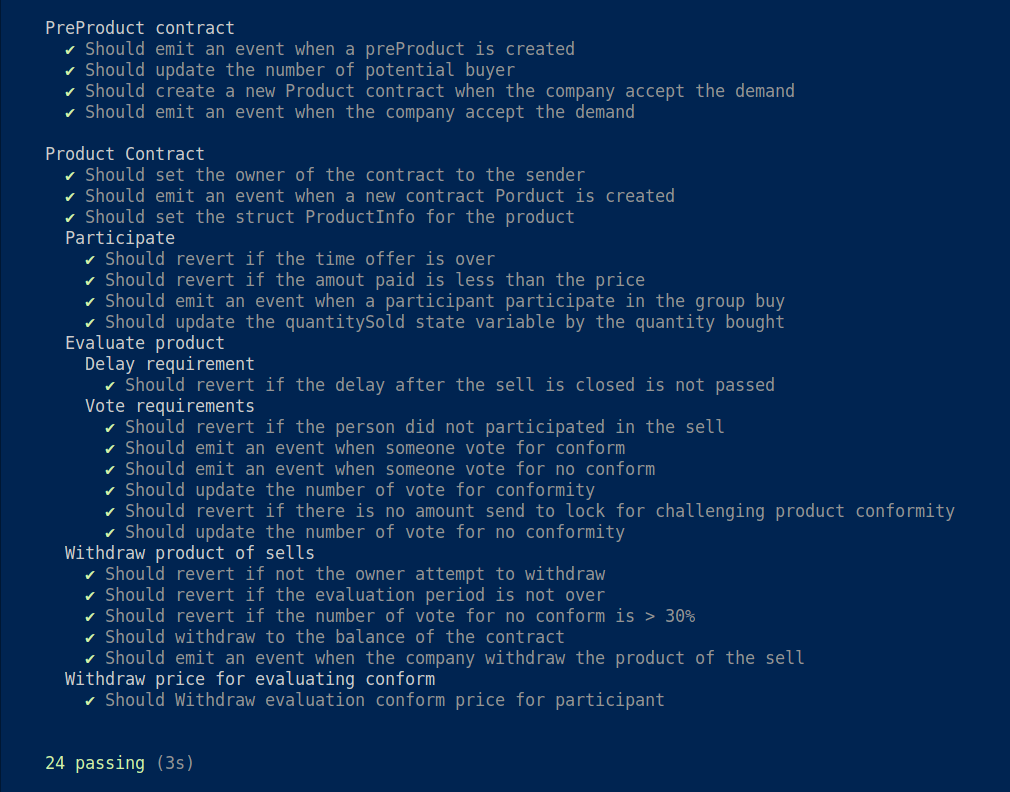
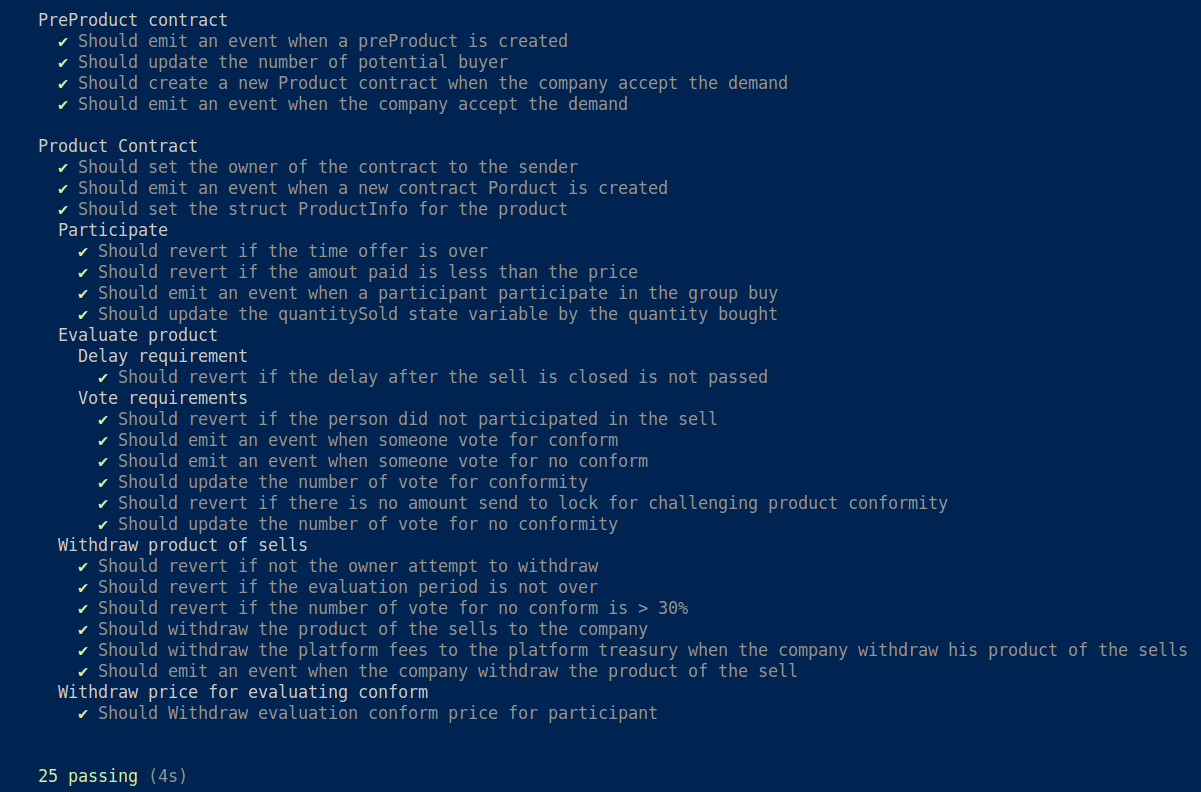
treasury contract and implementing a 5% platform fee

diff --git a/test/product.ts b/test/product.ts
@@ -143,12 +143,16 @@ describe("Product Contract", function () {
         let QUANTITY_TO_BUY_BUYER2 = 5;
         let AMOUNT_TO_LOCK_FOR_VOTING_NO_CONFORM = 0.1;
         let AMOUNT_TO_LOCK = QUANTITY_TO_BUY_BUYER2 * AMOUNT_TO_LOCK_FOR_VOTING_NO_CONFORM;
+        let treasury: Contract;
 
         beforeEach(async () => {
             const participateTx = await product.participate(QUANTITY_TO_BUY, {value: QUANTITY_TO_BUY * DISCOUNTED_PRICE});
             await participateTx.wait();
             const participateTx2 = await product.connect(hacker).participate(5, {value: 5 * DISCOUNTED_PRICE});
             await participateTx2.wait();
+            const TreasuryFactory = await ethers.getContractFactory("Treasury");
+            const treasuryAddress = await productFactory.treasury();
+            treasury = TreasuryFactory.attach(treasuryAddress);
         })
 
         it("Should revert if not the owner attempt to withdraw", async () => {
@@ -166,7 +170,7 @@ describe("Product Contract", function () {
             await evaluateTx2.wait();
             await expect(product.withdrawProductOfSells()).to.be.revertedWithCustomError(product, "ThereIsAProblemWithYourProduct")
         })
-        it("Should withdraw to the balance of the contract", async () => {
+        it("Should withdraw the product of the sells to the company", async () => {
             await time.increase(DURATION + 2*14*24*60*60)
             const evaluateTx = await product.evaluateProduct(true);
             await evaluateTx.wait()
@@ -175,6 +179,16 @@ describe("Product Contract", function () {
             await withdrawTx.wait();
             const balanceContractAfter = await ethers.provider.getBalance(product.address);
             expect(balanceContractAfter).to.be.lt(balanceContractBefore);
+        })
+        it("Should withdraw the platform fees to the platform treasury when the company withdraw his product of the sells", async () => {
+            await time.increase(DURATION + 2*14*24*60*60)
+            const evaluateTx = await product.evaluateProduct(true);
+            await evaluateTx.wait()
+            const balanceTreasuryBefore = await ethers.provider.getBalance(treasury.address);
+            const withdrawTx = await product.withdrawProductOfSells();
+            await withdrawTx.wait();
+            const balanceTreasuryAfter = await ethers.provider.getBalance(treasury.address);
+            expect(balanceTreasuryAfter).to.be.gt(balanceTreasuryBefore);
         })
         it("Should emit an event when the company withdraw the product of the sell", async () => {
             await time.increase(DURATION + 2*14*24*60*60)

diff --git a/README.md b/README.md
@@ -44,6 +44,7 @@ A new Product contract is created from the factory contract. This contract manag
 - When the sells period is over and if the requirements are met, the companies can start shipping the products to the different buyers. This period last 2 weeks.
 - The product of the sells is locked on the contract for another 2 weeks (evaluation period).
 - It can be withdrawn by the company only if there are less than 30% of disatisfied consummer.
+- There is a 5% platform fees that is send to the platform treasury when the company decide to withdraw his funds.
 
 #### Evaluation period
 
